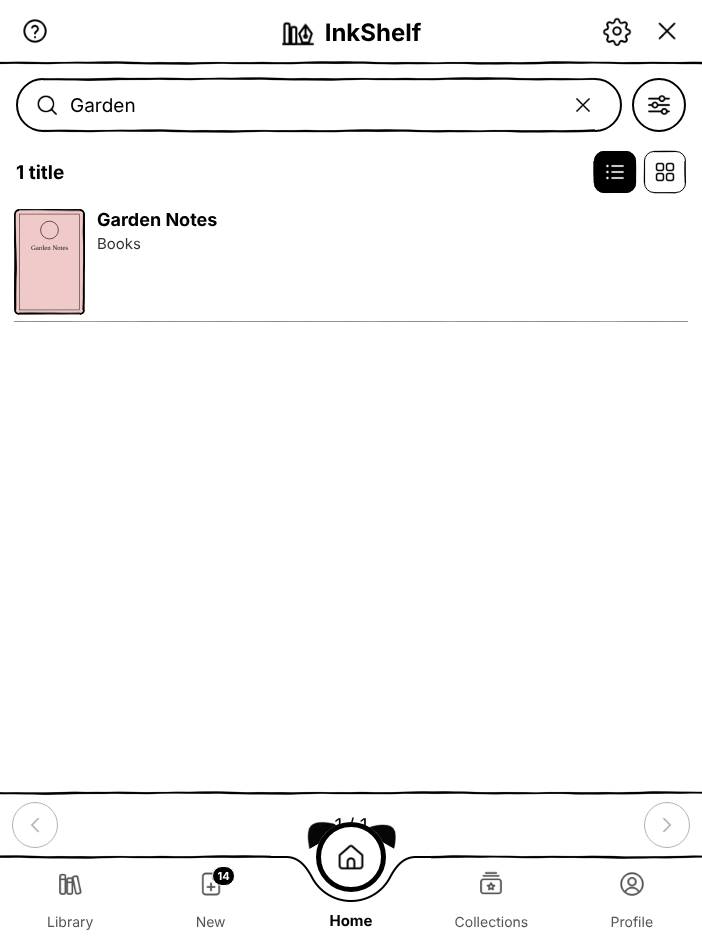
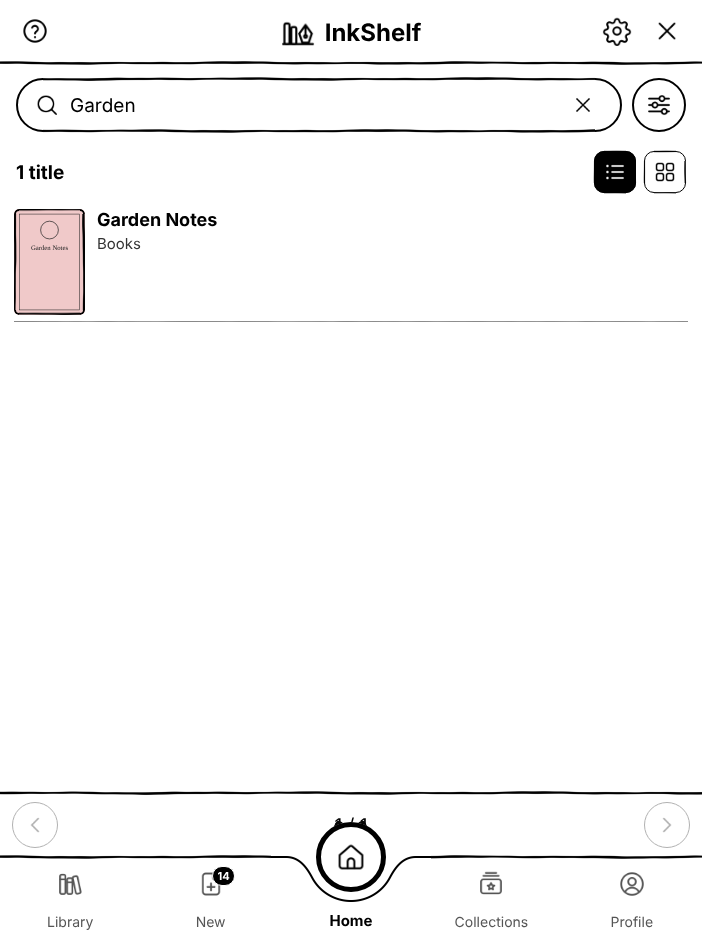
Cat-shaped toggles in the Cats look; small ears back on top of the Home button
Claude-Session: https://claude.ai/code/session_01X56ddDHNWUKJn2BBuoFg9X

diff --git a/App.tsx b/App.tsx
@@ -41,8 +41,7 @@ const CAT_IMG = {
 // height / width of each picture
 const CAT_RATIO: {[k in keyof typeof CAT_IMG]: number} = {peek: 0.5349, ears: 0.4848, paw: 0.8213, loaf: 0.7054, sitting: 1.0231, sleepy: 0.8558, stretch: 0.9286};
 let CAT = false; // set from Settings on every render
-const CAT_EAR_L = require('./assets/cat/ear-left.png');
-const CAT_EAR_R = require('./assets/cat/ear-right.png');
+const TOGGLE_EARS = require('./assets/cat/toggle-ears.png'); // cut from tools/cats/toggle-source.png
 
 // ---------- the hand-drawn look (Settings › Look): every ink border becomes a slightly wobbly pen line ----------
 // The line pictures (tools/sketch/make.py) are cropped, never stretched, so the wobble looks the same on short and long edges.
@@ -185,20 +184,6 @@ const TextInput = React.forwardRef<RNTextInput, React.ComponentProps<typeof RNTe
 const CatImg = ({name, w, style}: {name: keyof typeof CAT_IMG; w: number; h?: number; style?: any}) => (
   <Image source={CAT_IMG[name]} style={[{width: w, height: Math.round(w * CAT_RATIO[name]), pointerEvents: 'none'}, style]} resizeMode="contain" />
 );
-/** the bottom bar's round button (70 wide, its top 36 above the bar) wears an ear on each shoulder, tilted with the circle */
-const EAR = {w: px(36), h: px(20)}; // ear-left/right.png are about 84 x 44
-const Ears = () => {
-  const a = 52 * Math.PI / 180, d = px(41); // the ear's base tucks under the button's rim // angle from the top, distance from the circle's middle
-  const cy = -px(36) + px(35);
-  return (
-    <>
-      {[-1, 1].map(sd => (
-        <Image key={sd} source={sd < 0 ? CAT_EAR_L : CAT_EAR_R} resizeMode="contain"
-          style={{position: 'absolute', width: EAR.w, height: EAR.h, top: cy - d * Math.cos(a) - EAR.h / 2, left: '50%', marginLeft: sd * d * Math.sin(a) - EAR.w / 2, transform: [{rotate: `${sd * 30}deg`}], pointerEvents: 'none'} as any} />
-      ))}
-    </>
-  );
-};
 /** two little paw prints walking into a sticky note's bottom-left corner */
 const PawTrail = () => (
   <RNView pointerEvents="none" style={{position: 'absolute', left: px(8), bottom: px(6), width: px(44), height: px(34)}}>
@@ -299,8 +284,18 @@ function IconBtn({name, onPress, label, dark, bare, size, iconSize, disabled, st
 
 function Pill({label, onPress, active, small}: {label: string; onPress?: () => void; active?: boolean; small?: boolean}) {
   return (
-    <Pressable onPress={onPress} hitSlop={px(4)} style={[st.pill, small && st.pillSmall, active && st.pillActive]}>
-      <Text style={[st.pillText, small && {fontSize: px(14)}, active && {color: '#ffffff'}]}>{label}</Text>
+    <Pressable onPress={onPress} hitSlop={px(4)} style={[st.pill, small && st.pillSmall, active && st.pillActive, CAT && {marginTop: px(5), marginBottom: px(3)}, CAT && active && {paddingLeft: px(6), overflow: 'visible'}]}>
+      {CAT && active ? (
+        // the Cats look: a switched-on toggle is a little black cat, ears on top and eyes where the tick was
+        <RNView style={{flexDirection: 'row', alignItems: 'center'}}>
+          <Image source={TOGGLE_EARS} style={{position: 'absolute', left: -px(1), top: -px(11), width: px(30), height: px(8)}} resizeMode="stretch" />
+          <RNView style={st.catEye} />
+          <RNView style={[st.catEye, {marginLeft: px(4), marginRight: px(7)}]} />
+          <Text style={[st.pillText, small && {fontSize: px(14)}, {color: '#ffffff'}]}>{label.replace(/^✓\s*/, '')}</Text>
+        </RNView>
+      ) : (
+        <Text style={[st.pillText, small && {fontSize: px(14)}, active && {color: '#ffffff'}]}>{label}</Text>
+      )}
     </Pressable>
   );
 }
@@ -3692,7 +3687,7 @@ function Taskbar({tab, onTab, newCount}: {tab: Tab; onTab: (t: Tab) => void; new
                 {/* the open tab sits in a dip cut into the bar, like a call-to-action button */}
                 {/* one smooth curve: flat bar, soft shoulder, round dip around the button, soft shoulder */}
                 <Image source={DIP_IMG} style={st.dip} resizeMode="stretch" />
-                {CAT ? <Ears /> : null}
+                {CAT ? <CatImg name="ears" w={px(40)} style={{position: 'absolute', top: -px(36) - px(2), alignSelf: 'center'}} /> : null}
                 <View style={st.taskCta}>
                   <Icon name={icon} size={px(32)} />
                   {badge}
@@ -5673,6 +5668,7 @@ function CardHeader({title, onBack, onClose, right}: {title: string; onBack: () 
 }
 
 const st = StyleSheet.create({
+  catEye: {width: px(7), height: px(7), borderRadius: px(4), backgroundColor: '#ffffff'},
   descFrame: {flex: 1, borderWidth: 2.5, borderColor: BLACK, borderRadius: px(22), alignItems: 'center', justifyContent: 'center'},
   byLineSmall: {fontSize: px(14), lineHeight: px(18), color: '#444444', marginTop: px(1), flexShrink: 0},
   waitBar: {flexDirection: 'row', alignItems: 'center', height: px(62), marginHorizontal: px(12), marginTop: px(8), paddingHorizontal: px(12), borderWidth: 2, borderStyle: 'dashed', borderColor: BLACK, borderRadius: px(14)},
